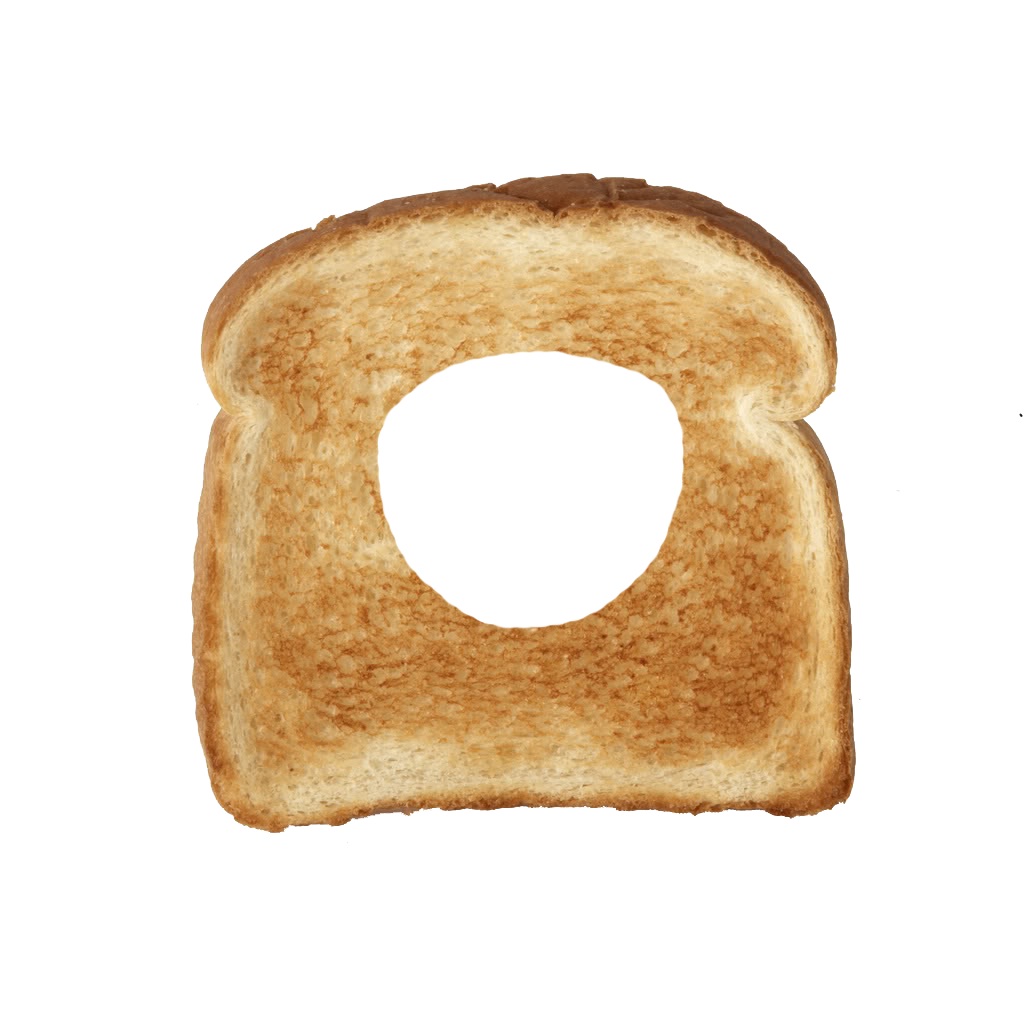
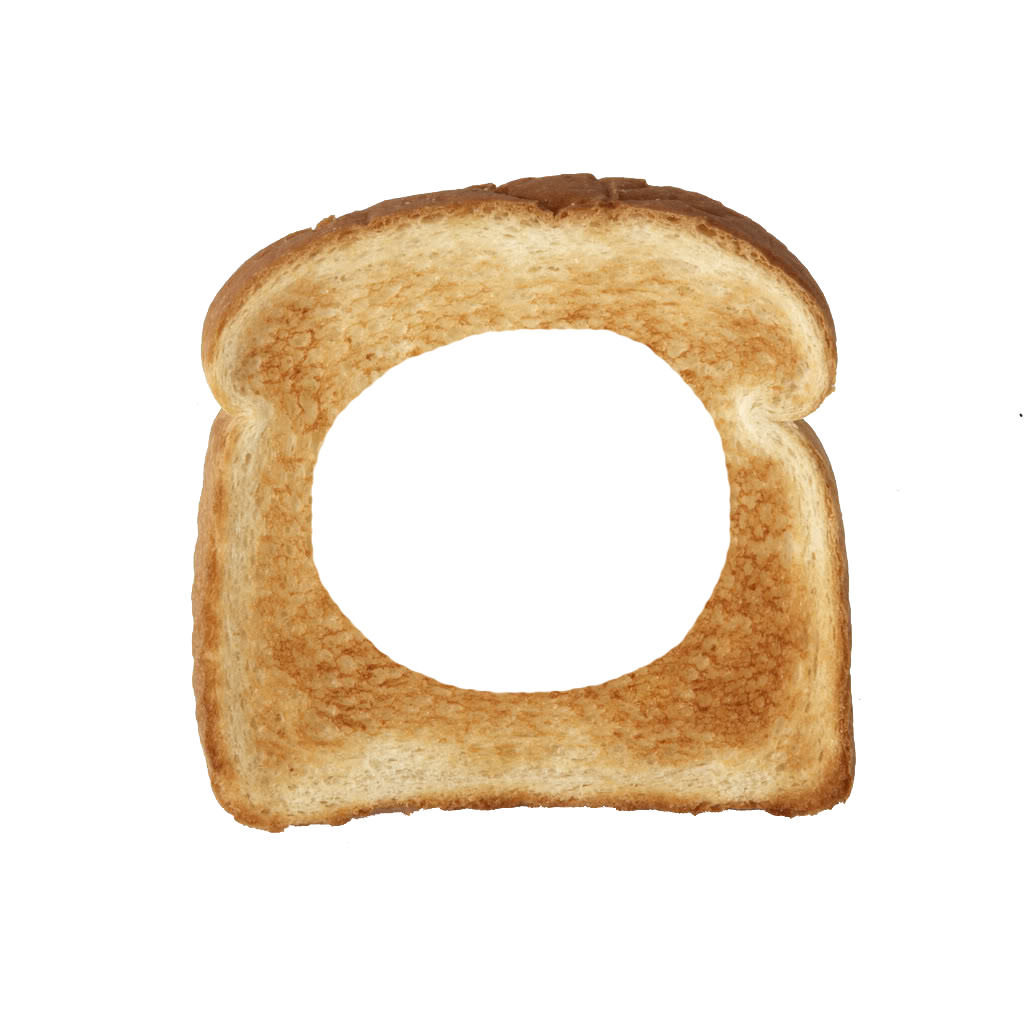
toast filter

Changed region(s): [[0.2812, 0.3125, 0.7188, 0.6875]]

diff --git a/add_toast.py b/add_toast.py
@@ -25,6 +25,8 @@ def toast_filter(image,coord):
     left_out_ear = coord[3,:]
     right_out_ear = coord[-1,:]
 
+    mouth = coord[2, :]
+
     #try using mouth point for face
     mouth_point = coord[2,:]
     toast = cv2.imread('filters/toast.png',cv2.IMREAD_UNCHANGED)
@@ -33,19 +35,14 @@ def toast_filter(image,coord):
     #set width accordingly
     angle = np.arctan((left_tip[1]-right_tip[1])/(left_tip[0]-right_tip[0]))
     toast_width = np.linalg.norm(right_tip - left_tip)
+    toast_width *= 1.8
     toast_height = mouth_point[1] - min(right_tip[1],left_tip[1])
-    #print("left_tip", left_tip)
-    #print("right_tip", right_tip)
-    #print("mouth_point", mouth_point)
-
-    #print("height", james_height)
-    #print("width",james_width)
+    toast_height *= 2.2
 
     rotate_toast = imutils.rotate_bound(toast,angle*180/np.pi)
 
     old_height, old_width, channel = toast.shape
 
-    #hat_height = old_height*hat_width/old_width
     toast = cv2.resize(rotate_toast, (int(1.3*toast_width),int(1.3*toast_height)))
     hw,hh,hc = toast.shape
 
@@ -63,25 +60,24 @@ def toast_filter(image,coord):
     image[:,:,0] = image[:,:,2]
     image[:,:,2] = new_image_chan
 
+    y = int(mouth[1] - toast_height/1.3)
+    x = int(mouth[0] - toast_width/1.6)
+
     for i in range(0,hw):       # Overlay the filter based on the alpha channel
         for j in range(0,hh):
-            if toast[i,j,-1] != 0 and i+left_tip[1] >=0 and j+left_tip[0] >=0:
-                image[i+left_tip[1],j+left_tip[0],:] = toast[i,j,:-1]
-            '''
-            #use ear tips if out of bounds
-            if left_tip[1] <0 or left_tip[0] <0:
-                if hat[i,j,-1] != 0 and i+left_tip[1] >=0 and j+left_tip[0] >=0:
-                    image[i+left_tip[1],j+left_tip[0],:] = hat[i,j,:-1]
-            #use ear base otherwise
-            else:
-                if hat[i,j,-1] != 0 and i+left_out_ear[1]-hw >=0 and j+left_out_ear[0] >=0:
-                    image[i+left_out_ear[1],j+left_out_ear[0],:] = hat[i,j,:-1]
-            '''
+            if toast[i,j,-1] != 0 and i+y >=0 and j+x >=0 and i+y < len(image) and j+x < len(image[0]):
+                # print(i+left_tip[1], j+left_tip[0])
+                # print(i,j)
+                # image[i+left_tip[1],j+left_tip[0],:] = toast[i,j,:-1]
+                # image[i+left_tip[1]-80,j+left_tip[0]-180,:] = toast[i,j,:-1]
+                # y = j + mouth[0] - toast_height/2
+                # x = i + mouth[1] - toast_width/2
+                image[i+y,j+x,:] = toast[i,j,:-1]
 
     plt.imshow(image)
     plt.show()
 
-data_dir = os.path.dirname(__file__) + './cat-dataset/s'# + str(i)
+data_dir = os.path.dirname(__file__) + './cat-dataset/small'
 image_paths, coordinate_paths = get_cats(data_dir)
 print("retrieved paths")
 images_orig, coords_orig, max_x, max_y = load_data(image_paths, coordinate_paths)
@@ -97,4 +93,4 @@ for ind in range(len(images)):
     print(image.shape)
     coord = coords[ind]
 
-    james_filter(image,coord)
+    toast_filter(image,coord)
